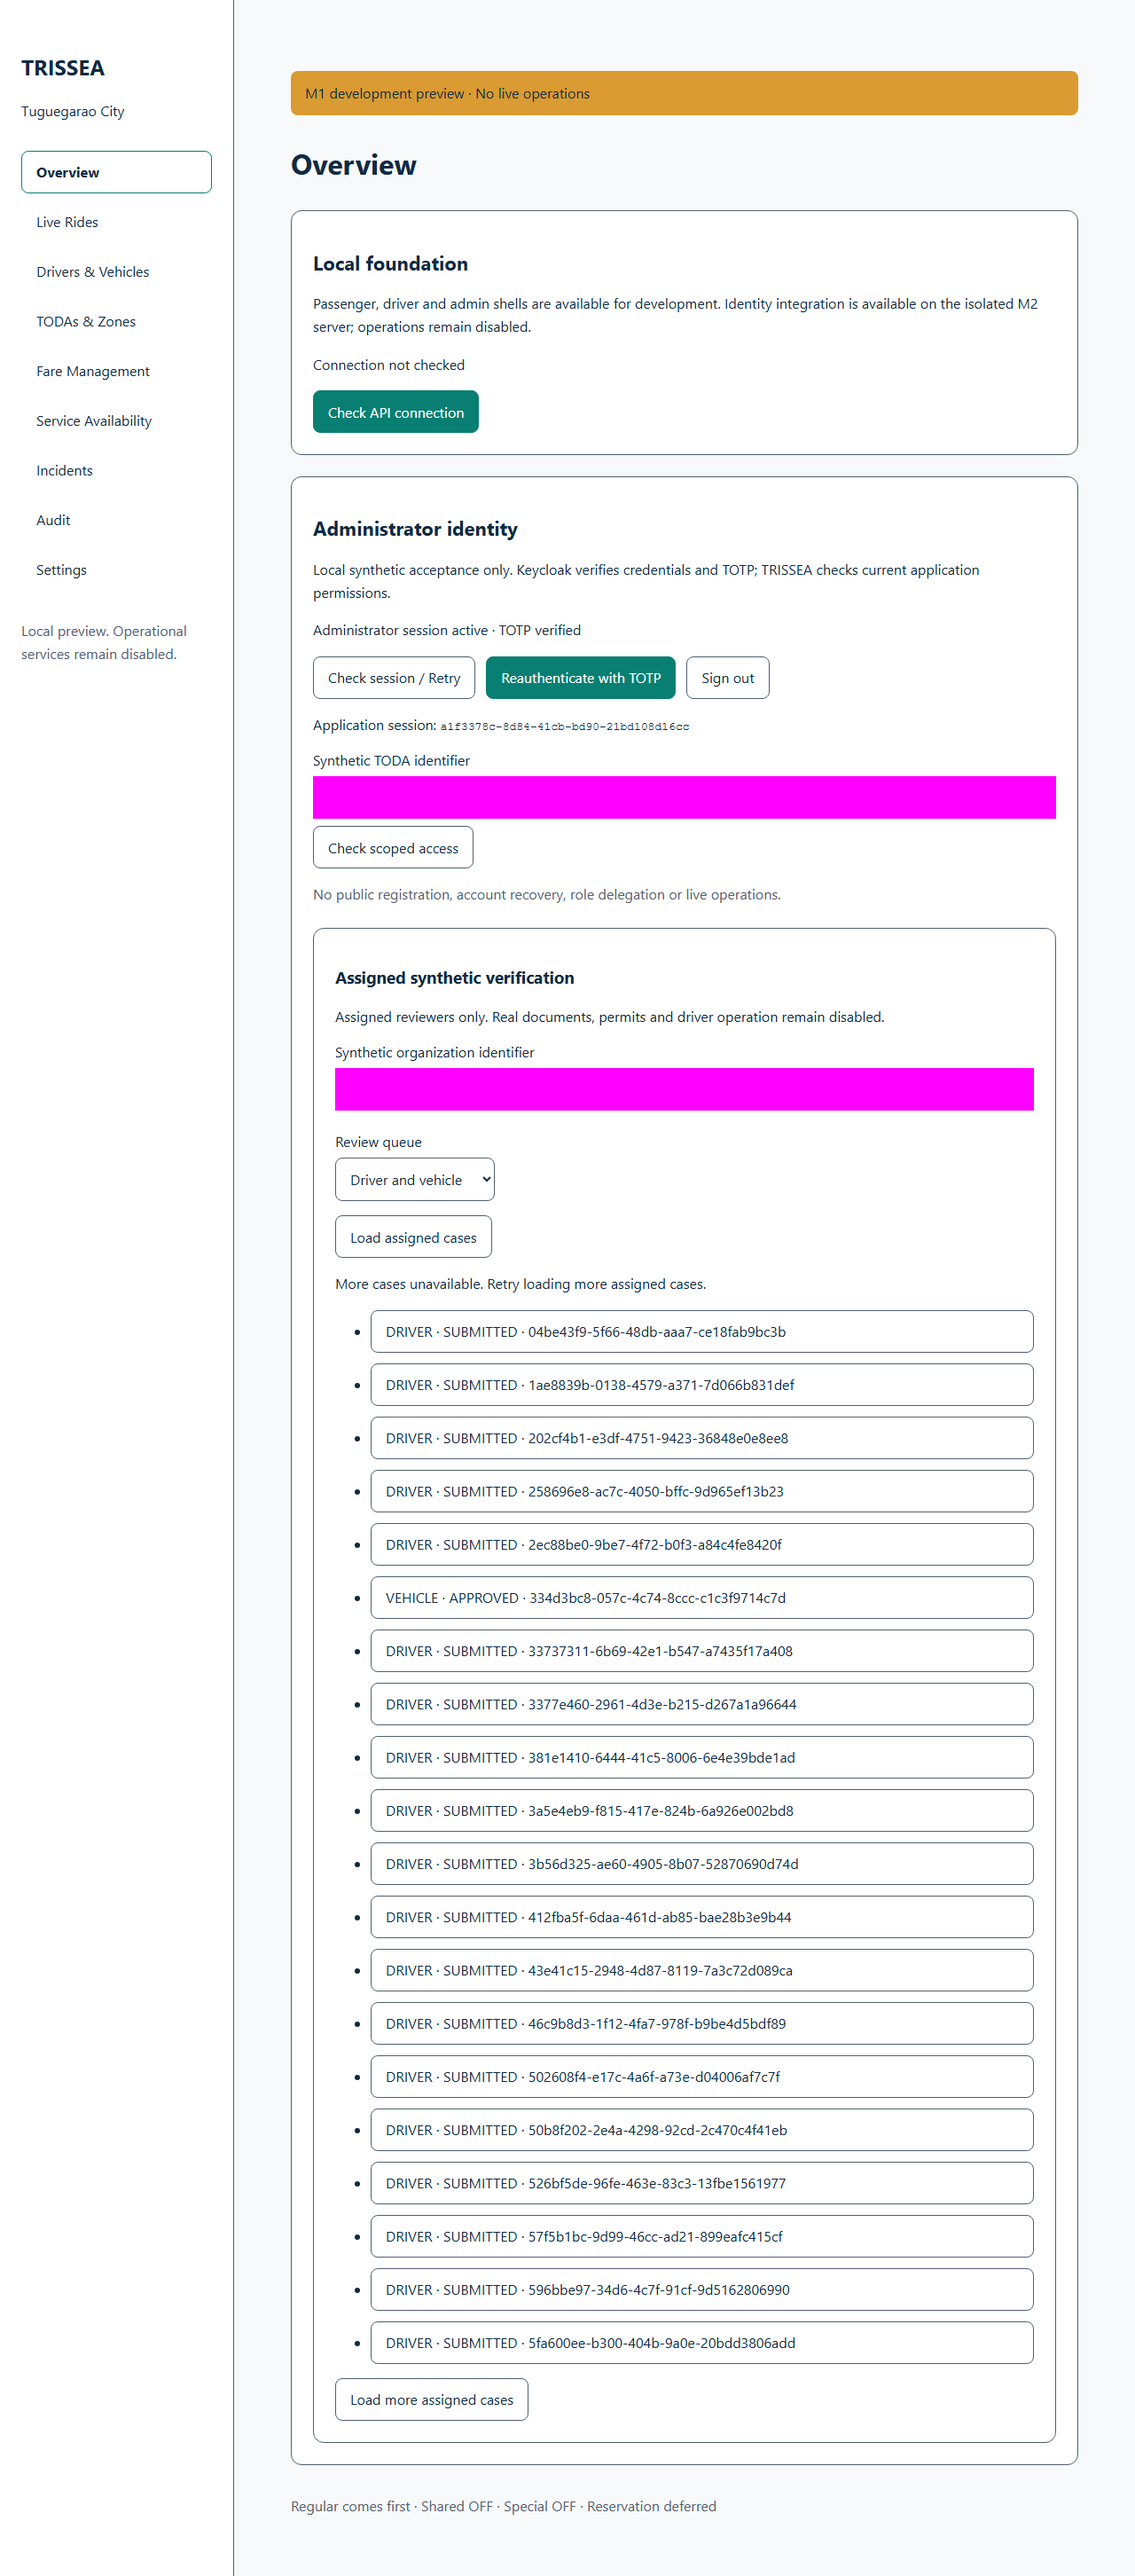
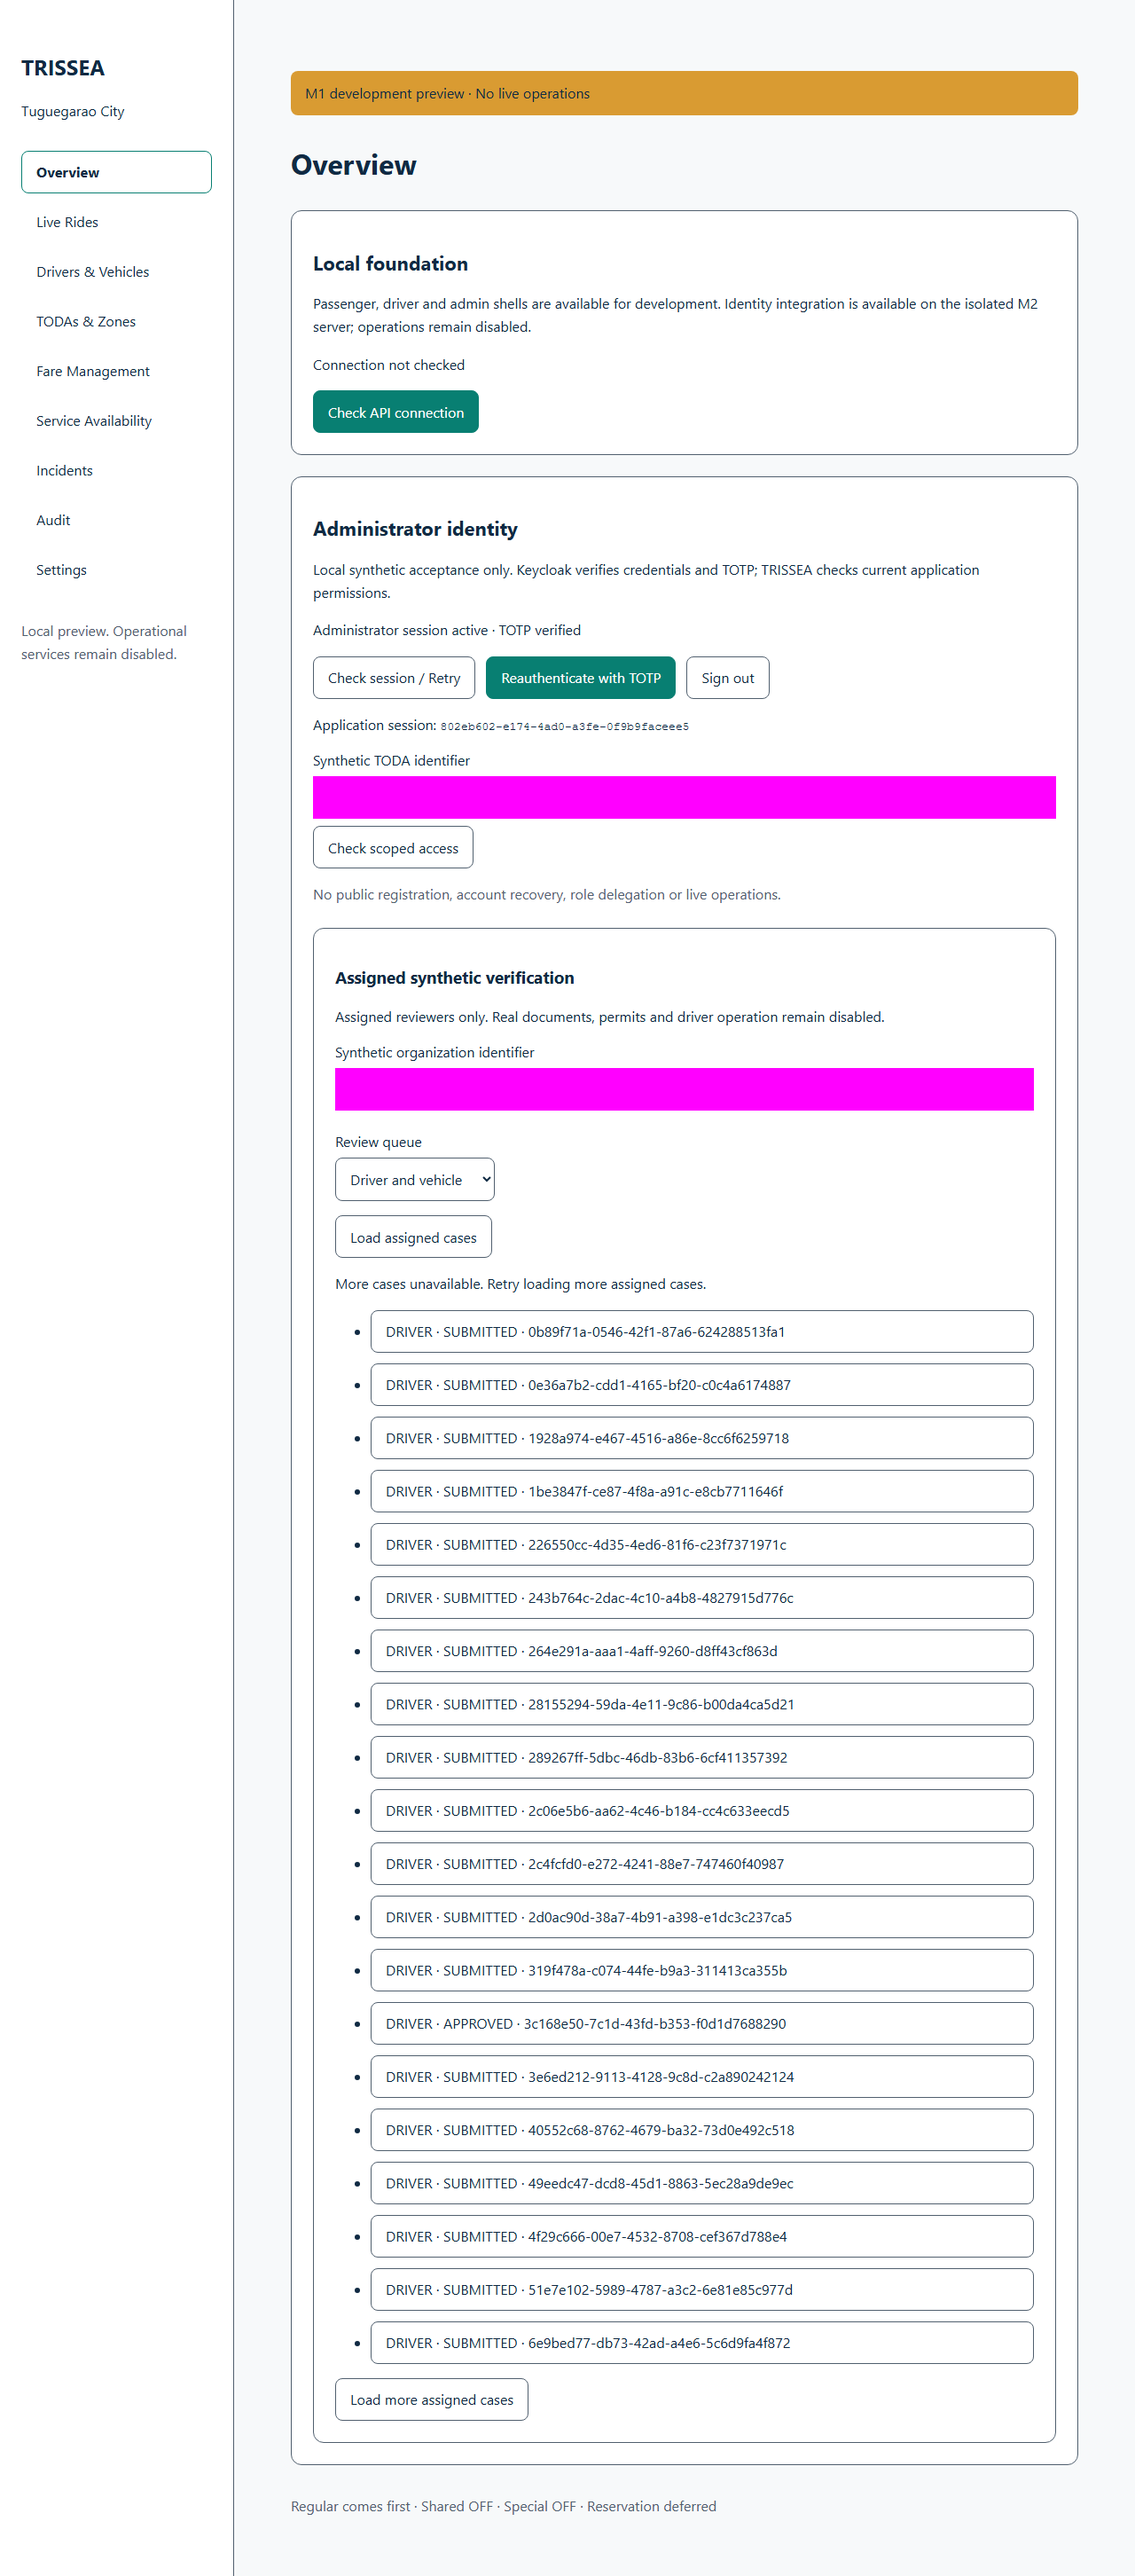
test(admin): use a displayed case for grant revocation

Changed region(s): [[0.4688, 0.5269, 0.6875, 0.9298]]

diff --git a/docs/63-M2-INTEGRATION-SECURITY-ACCEPTANCE.md b/docs/63-M2-INTEGRATION-SECURITY-ACCEPTANCE.md
@@ -343,6 +343,9 @@ final-page inspection **and approval**, terminal button removal, reload, a
 simulated HTTP 503 page failure/retry, simulated HTTP 403 cleanup and queue/TODA/
 visibility resets. Existing real Keycloak password/TOTP, current-grant revocation,
 CSRF, lost-response retry and browser-storage privacy checks pass in the same run.
+The grant-revocation check reuses an explicitly displayed driver case instead of
+searching just the first page of mixed case history; all six tests passed again
+after this fixture follow-up.
 HTTP failure injection tests the UI; it does not claim an actual provider outage.
 
 [Execution evidence](../evidence/m2/verification-pagination/validation.json),
